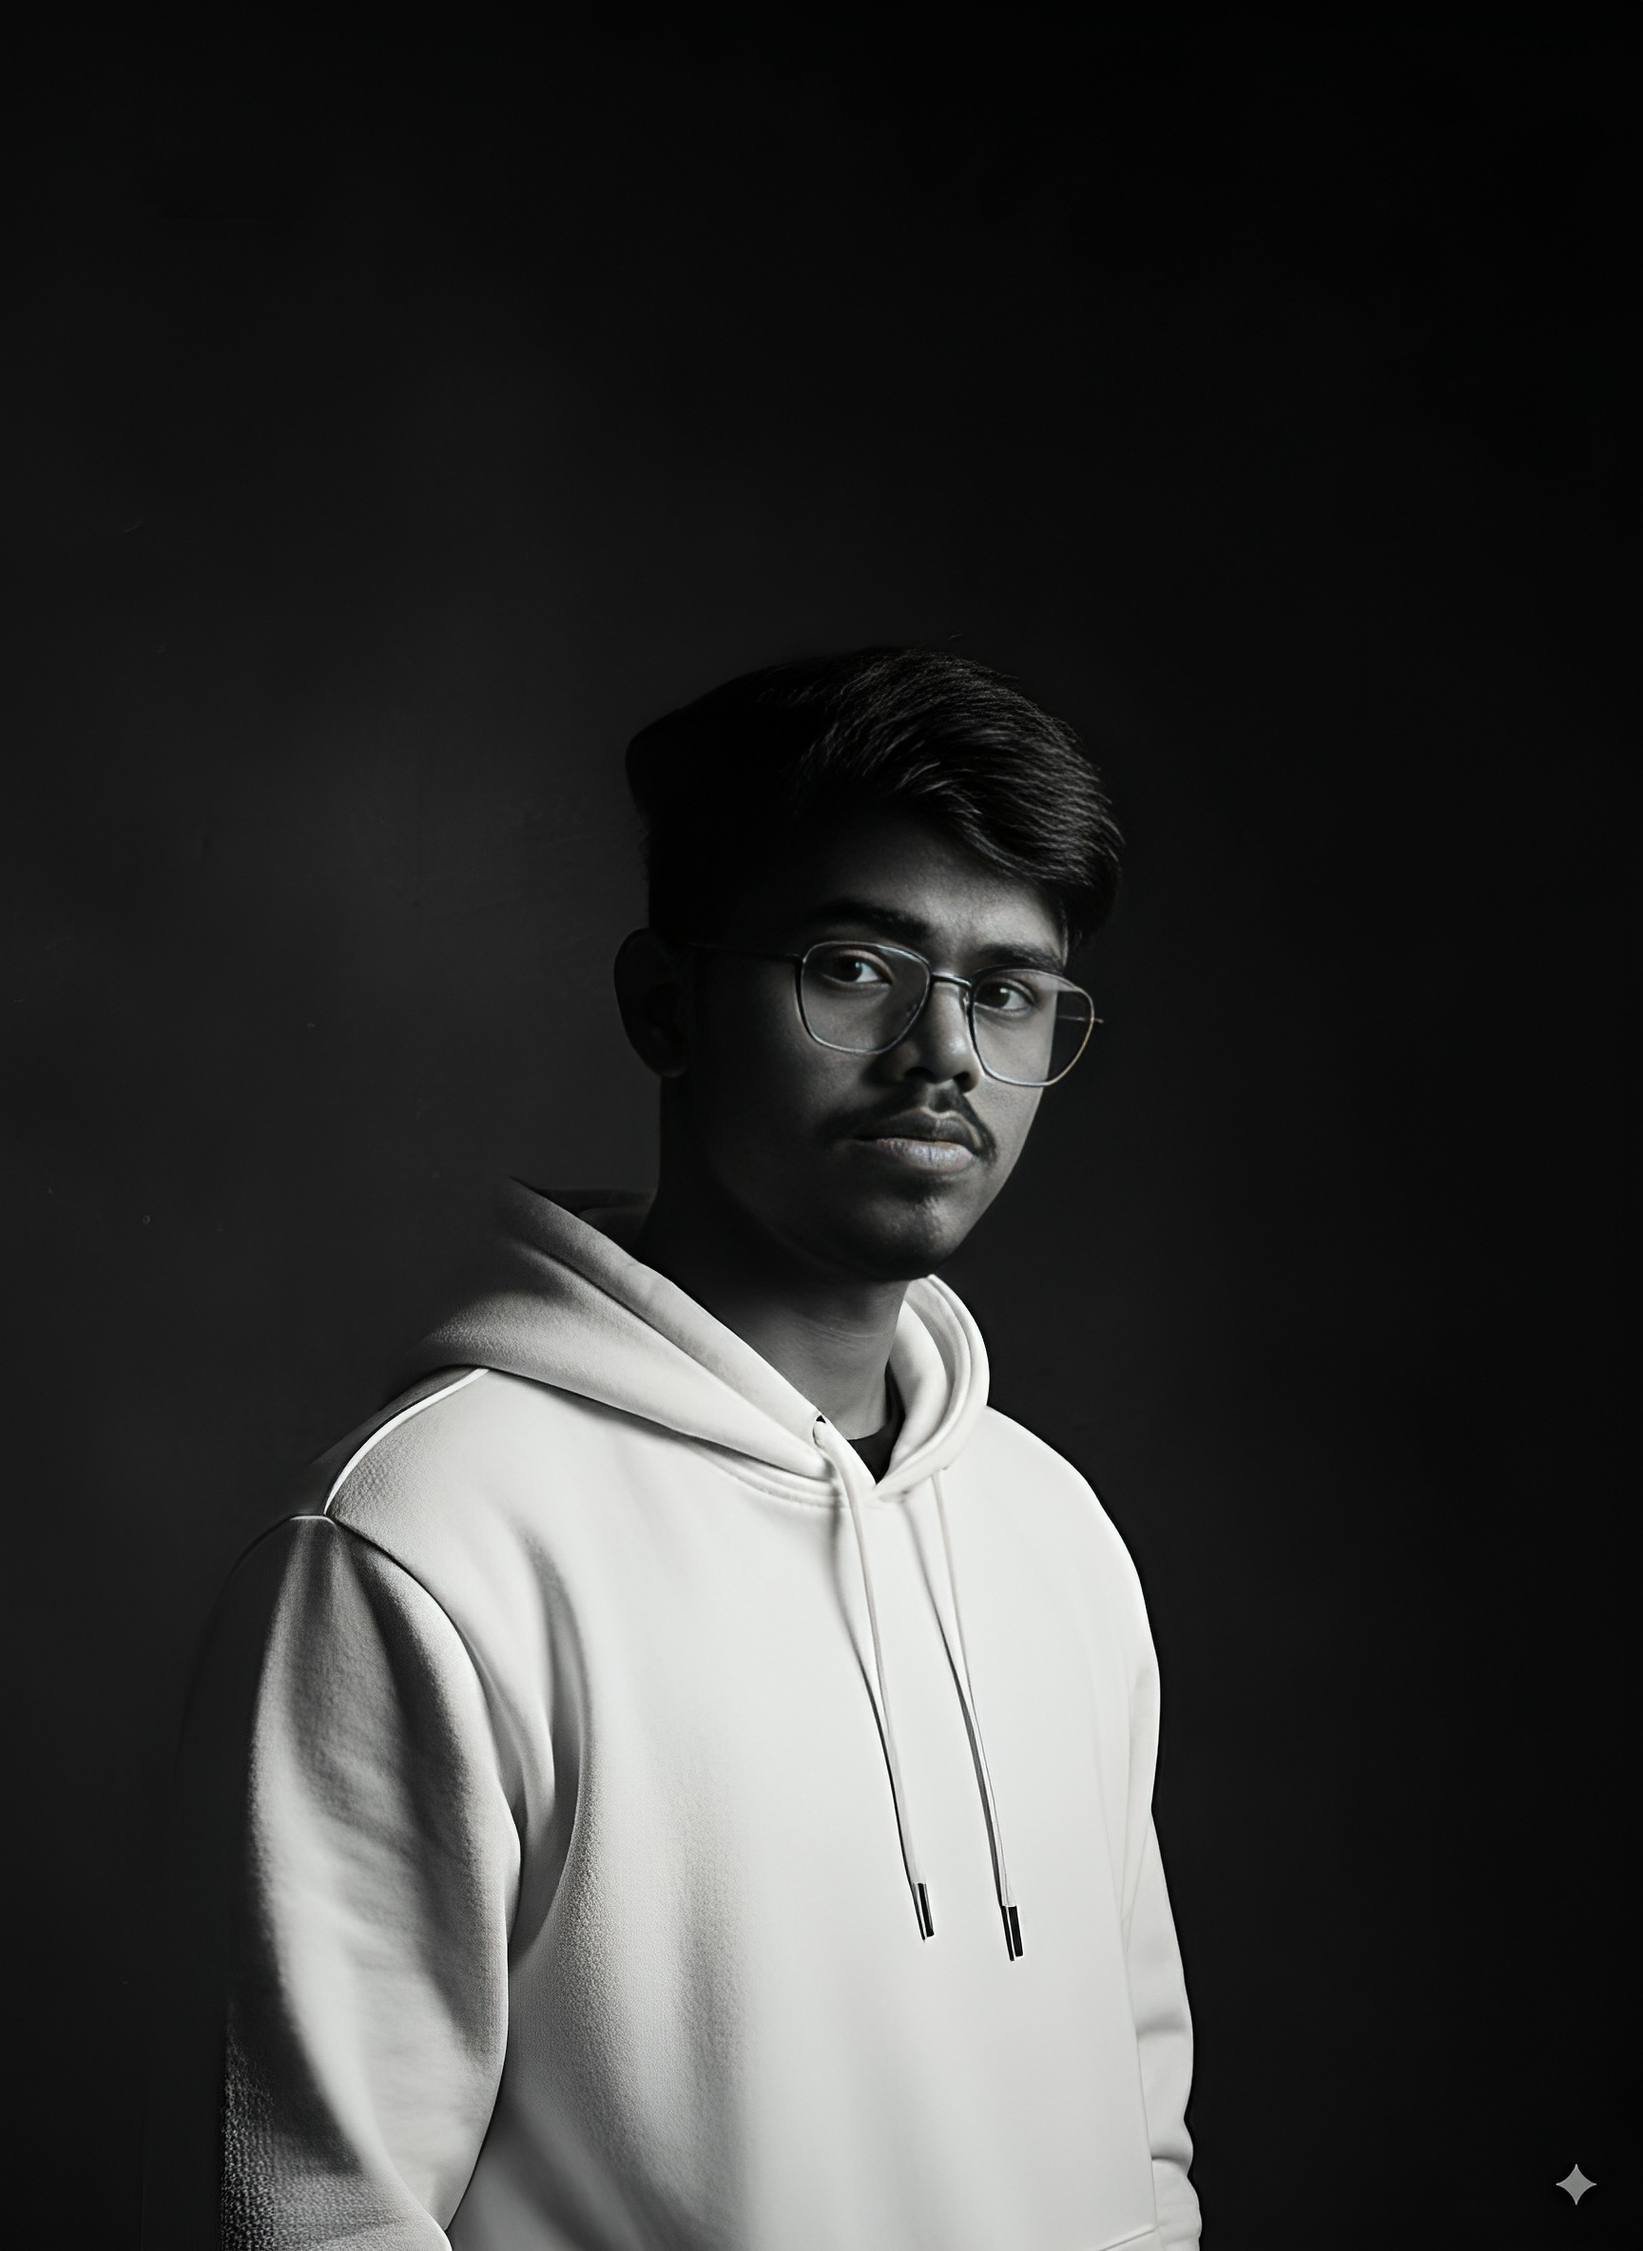
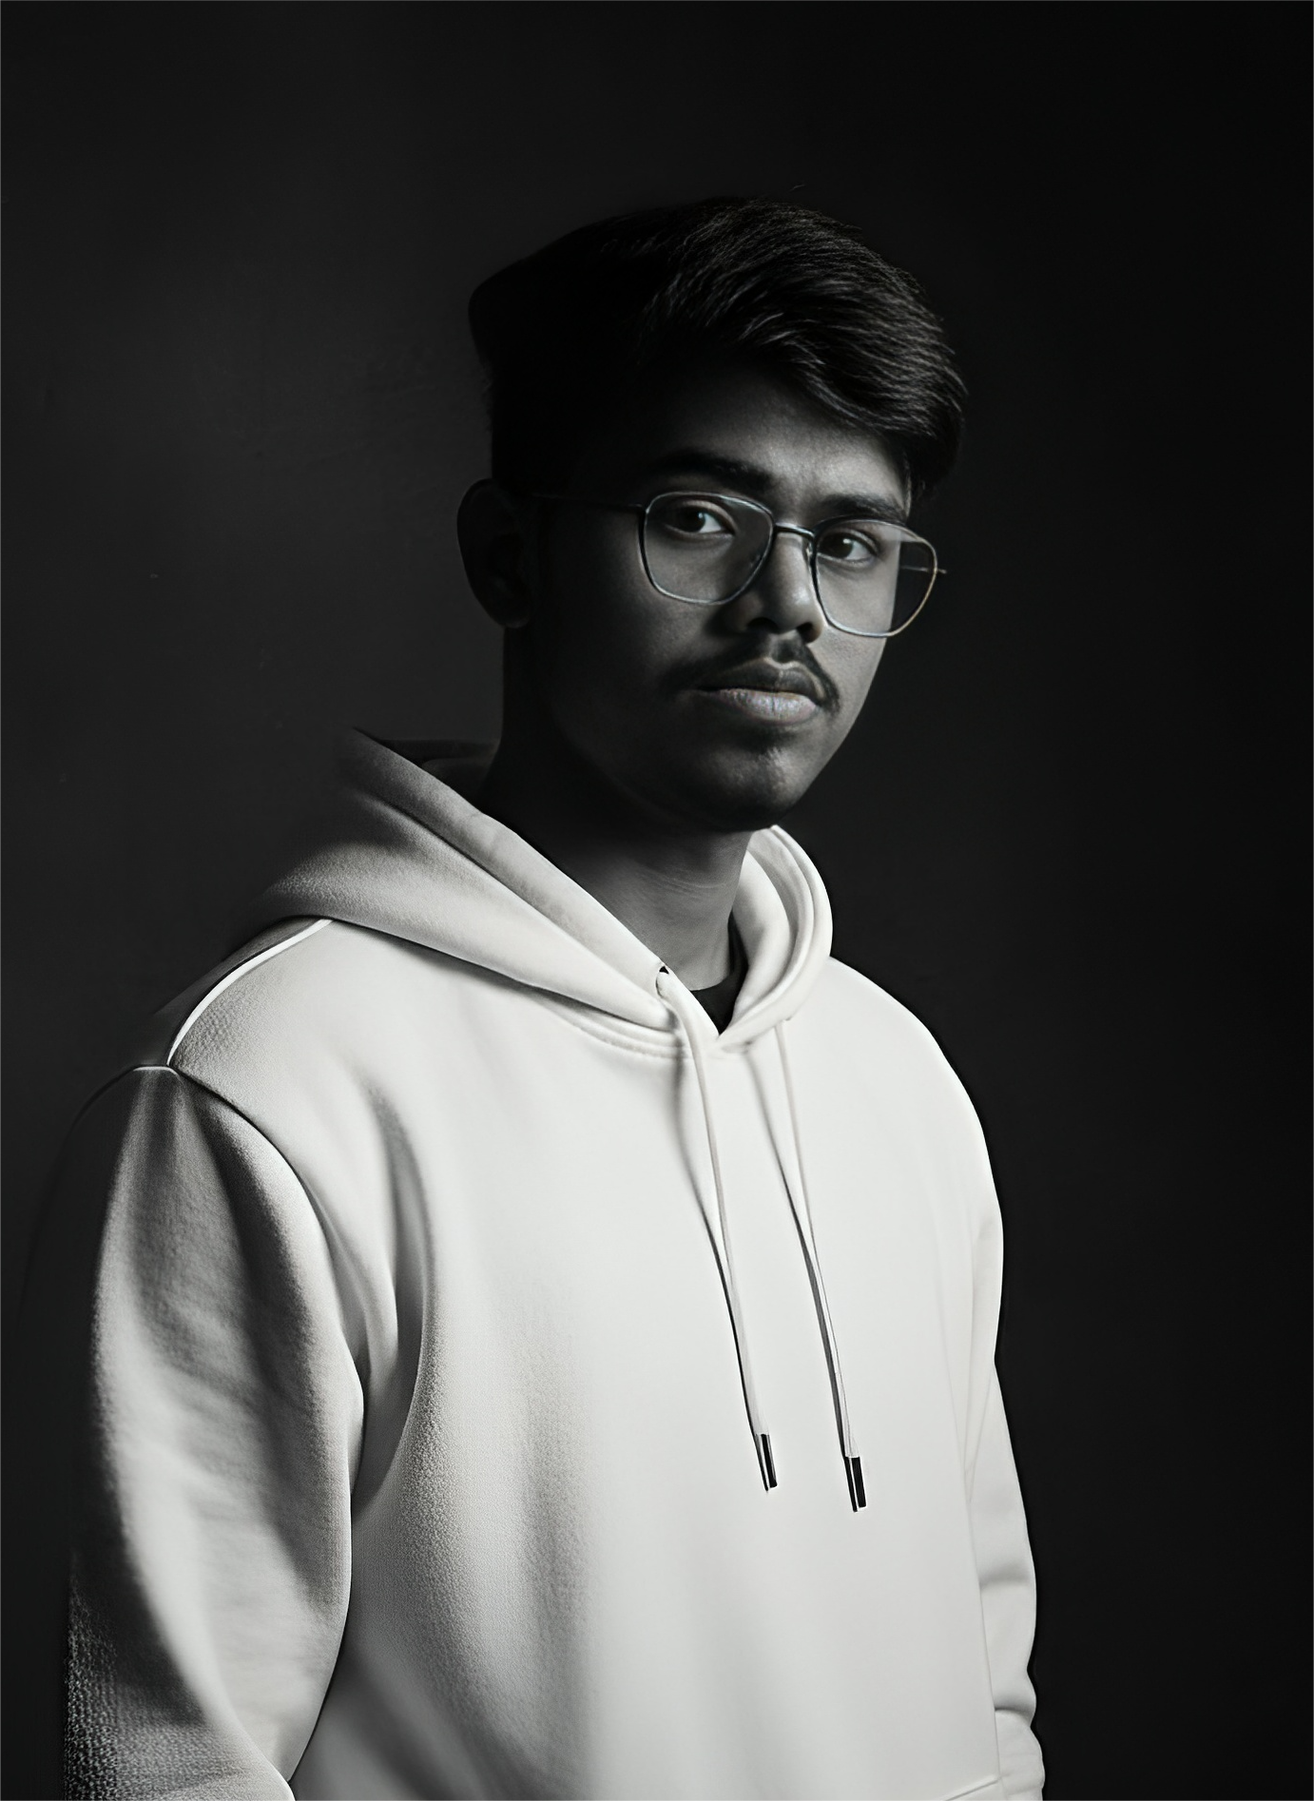
adding new profile pic

Changed region(s): [[0.0, 0.0, 1.0, 1.0], [0.6534, 0.9968, 0.6845, 1.0]]

diff --git a/apps/enji.dev/src/contents/index/Header/HeaderImage.tsx b/apps/enji.dev/src/contents/index/Header/HeaderImage.tsx
@@ -45,8 +45,8 @@ function HeaderImage() {
             alt="Enji Kusnadi Illustration"
             src="/assets/images/me.png
             "
-            width={457}
-            height={526}
+            width={400}
+            height={500}
             className={clsx(
               'hidden max-w-none',
               'lg:block',
